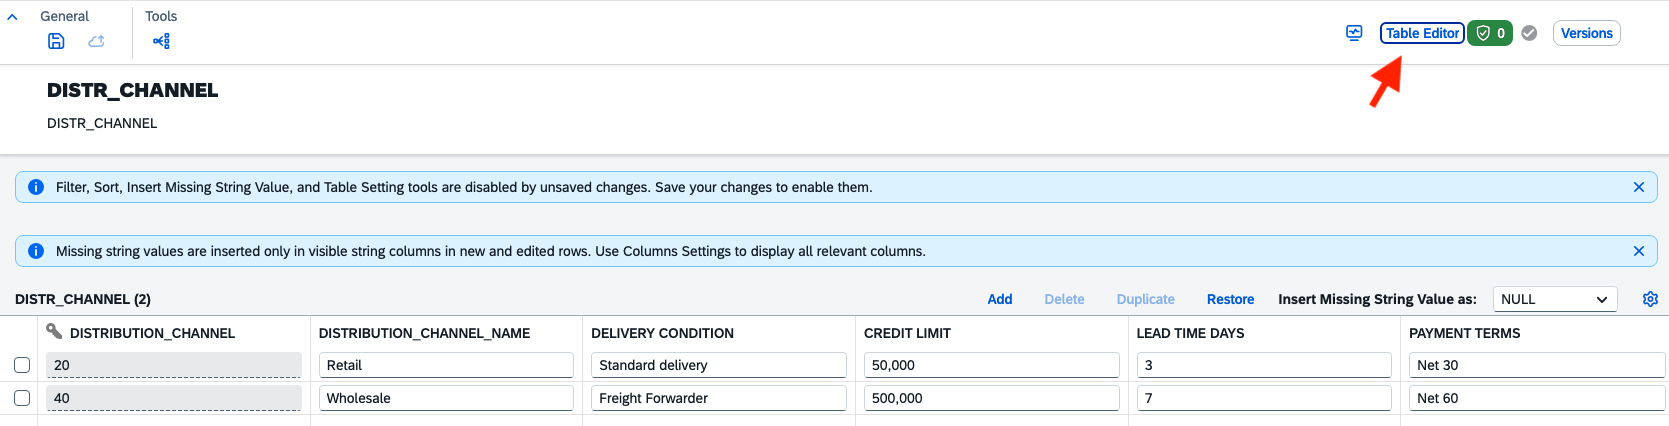
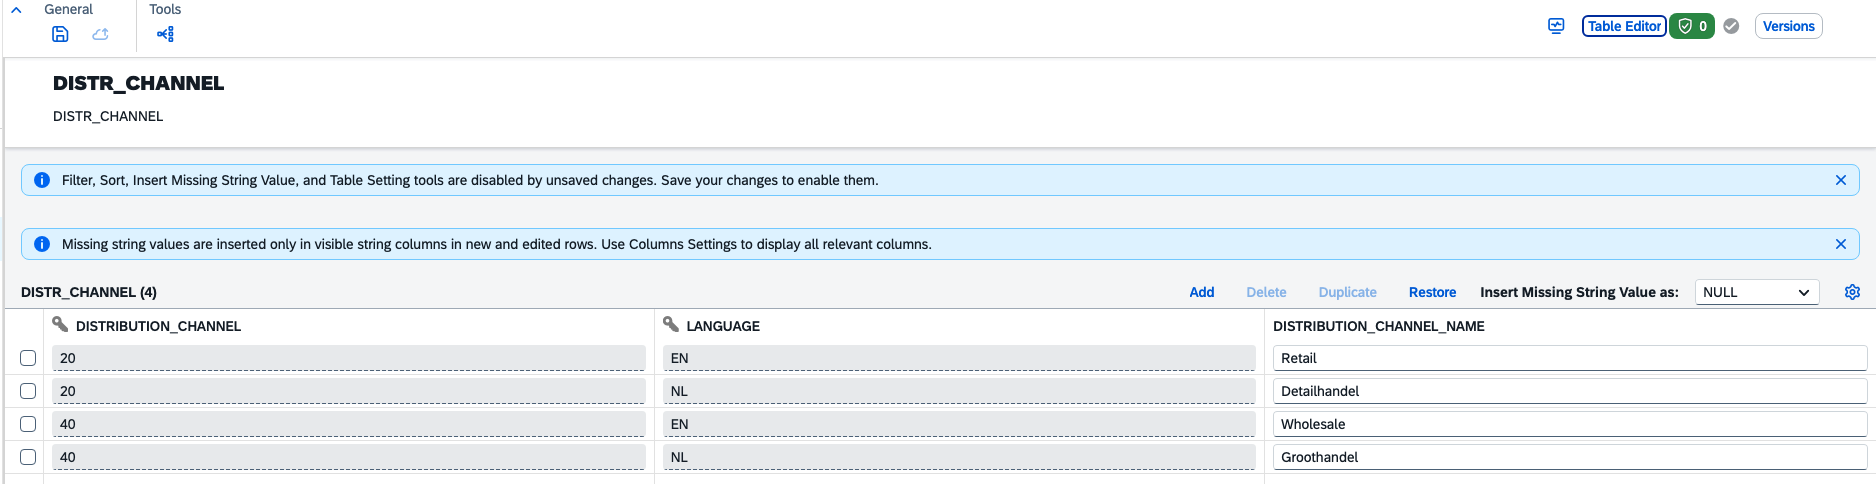
update

Changed region(s): [[0.0, 0.0, 1.0, 0.9765], [0.8101, 0.0, 0.9658, 0.2441]]

diff --git a/Lab 1/Data Modeling for S_4 Hana data.md b/Lab 1/Data Modeling for S_4 Hana data.md
@@ -81,7 +81,7 @@ nav_order: 2
 
 ### Create Distribution Channel Dimension View
 
-Repeat the same steps as above using the `DIST_CHANNEL` table and rename dimension business/technical name to `Distribution Channel DIM`
+Repeat the same steps as above using the `DIST_CHANNEL` table and rename dimension business/technical name to `DISTR_CHANNEL_DIM`
 
   <p>
   <img
@@ -156,7 +156,7 @@ Repeat the same steps as above using the `DIST_CHANNEL` table and rename dimensi
 <dialog id="img21" onclick="if(event.target===this)this.close()">
   <img src="{{ site.baseurl }}/images/customer_dim_hierarchy.png" style="max-width:90vw;">
 </dialog>
-6⃣ Drag the `Distribution Channel DIM` onto the canvas and hover it onto the calculated "fx" operator until Join appears, then select Join. In the Properties Panel choose Left Join and ensure `DISTRIBUTION_CHANNEL` columns are correctly mapped.
+6⃣ Drag the `DISTR_CHANNEL_DIM` onto the canvas and hover it onto the calculated "fx" operator until Join appears, then select Join. In the Properties Panel choose Left Join and ensure `DISTRIBUTION_CHANNEL` columns are correctly mapped.
  <p>
   <img
     src="{{ site.baseurl }}/images/customer_dim_join_1.png"
@@ -169,7 +169,33 @@ Repeat the same steps as above using the `DIST_CHANNEL` table and rename dimensi
 <dialog id="img22" onclick="if(event.target===this)this.close()">
   <img src="{{ site.baseurl }}/images/customer_dim_join_1.png" style="max-width:90vw;">
 </dialog>
-7⃣ Click the `Projection operator` next to the Left Join. Exclude the `DISTRIBUTION_CHANNEL` column that is set as a key using the (...) menu. If the **non-key** `DISTRIBUTION_CHANNEL` column is excluded, click Restore so that **only one** business key remains.
+7⃣ Click on the Left Join operator and choose the filter icon. On the filter properties type the expression: LANGAUGE = 'EN'
+<p>
+  <img
+    src="{{ site.baseurl }}/images/Filter_language_1.png"
+    alt="Filter_language_1"
+    style="width:600px; cursor:pointer;"
+    onclick="document.getElementById('img67').showModal()"
+  >
+</p>
+
+<dialog id="img67" onclick="if(event.target===this)this.close()">
+  <img src="{{ site.baseurl }}/images/Filter_language_1.png" style="max-width:90vw;">
+</dialog>
+
+<p>
+  <img
+    src="{{ site.baseurl }}/images/Filter_language.png"
+    alt="Filter_language"
+    style="width:600px; cursor:pointer;"
+    onclick="document.getElementById('img65').showModal()"
+  >
+</p>
+
+<dialog id="img65" onclick="if(event.target===this)this.close()">
+  <img src="{{ site.baseurl }}/images/Filter_language.png" style="max-width:90vw;">
+</dialog>
+8⃣  Click on the filter icon and choose the `Projection operator`. Exclude the `DISTRIBUTION_CHANNEL` column that is set as a key using the (...) menu. If the **non-key** `DISTRIBUTION_CHANNEL` column is excluded, click Restore.
 <p>
   <img
     src="{{ site.baseurl }}/images/customer_dim_join_1.1.png"
@@ -182,23 +208,25 @@ Repeat the same steps as above using the `DIST_CHANNEL` table and rename dimensi
 <dialog id="img23" onclick="if(event.target===this)this.close()">
   <img src="{{ site.baseurl }}/images/customer_dim_join_1.1.png" style="max-width:90vw;">
 </dialog>
-
+9⃣ Click on the Customer DIM output node and remove key from LANGUAGE attribute so that the dimension has only one key attribute
 <p>
   <img
-    src="{{ site.baseurl }}/images/customer_dim_canvas_1.png"
-    alt="ccustomer_dim_customer_dim_canvas_1"
+    src="{{ site.baseurl }}/images/remove_key.png"
+    alt="remove_key"
     style="width:600px; cursor:pointer;"
-    onclick="document.getElementById('img24').showModal()"
+    onclick="document.getElementById('img66').showModal()"
   >
 </p>
 
-<dialog id="img24" onclick="if(event.target===this)this.close()">
-  <img src="{{ site.baseurl }}/images/customer_dim_canvas_1.png" style="max-width:90vw;">
+<dialog id="img66" onclick="if(event.target===this)this.close()">
+  <img src="{{ site.baseurl }}/images/remove_key.png" style="max-width:90vw;">
 </dialog>
 
-8⃣Click **Save and Deploy** the view.
+  Repeat step 3 and Set `Text/Association` column `DISTRIBUTION_CHANNEL` → `DISTRIBUTION_CHANNEL_NAME`.  
 
-9⃣ Select the **Output Node**, open **Data Viewer** to preview the data.  
+🔟 Click **Save and Deploy** the view.
+
+1⃣1⃣ Select the **Output Node**, open **Data Viewer** to preview the data.  
    Then go to **Data Persistence** in the Properties Panel and click **Start Data Persistence**.
 
 ---

diff --git a/Lab 1/SAP Datasphere ingestion.md b/Lab 1/SAP Datasphere ingestion.md
@@ -148,8 +148,31 @@ Add the following columns:
 | Column Name | Data Type |
 |-------------|-----------|
 | DISTRIBUTION_CHANNEL | String (2) |
-| DISTRIBUTION_CHANNEL_NAME | String (10) |
+| DISTRIBUTION_CHANNEL_NAME | String (20) |
 | LANGUAGE | String (2) |
+
+
+3⃣ Set semantic usage to Text.
+
+4⃣ Set `DISTRIBUTION_CHANNEL` & `LANGUAGE` as **Key Attributes**
+
+5⃣ Set semantic type of `DISTRIBUTION_CHANNEL_NAME` to Text & semantic type of `LANGUAGE` to Language
+
+6⃣ Set Text/Association of attribute `DISTRIBUTION_CHANNEL` to `DISTRIBUTION_CHANNEL_NAME`
+   (The semantics will enhance the data model, which we build in the next lessons. For example, instead of the value of `DISTRIBUTION_CHANNEL`, the associated text of `DISTRIBUTION_CHANNEL_NAME` is displayed in the analysis)
+
+<p>
+  <img
+    src="{{ site.baseurl }}/images/distr_table.png"
+    alt="Distr"
+    style="width:600px; cursor:pointer;"
+    onclick="document.getElementById('img64').showModal()"
+  >
+</p>
+
+<dialog id="img64" onclick="if(event.target===this)this.close()">
+  <img src="{{ site.baseurl }}/images/distr_table.png" style="max-width:90vw;">
+</dialog>
 
 We will use the Table editor to manually insert 2 lines
 <p>
@@ -164,10 +187,6 @@ We will use the Table editor to manually insert 2 lines
 <dialog id="img6" onclick="if(event.target===this)this.close()">
   <img src="{{ site.baseurl }}/images/distr_attributes.png" style="max-width:90vw;">
 </dialog>
-
-3⃣ Set semantic usage to Text.
-
-4⃣ Set `DISTRIBUTION_CHANNEL` as the **Key Attribute**
 
 ## Data Ingestion
 
